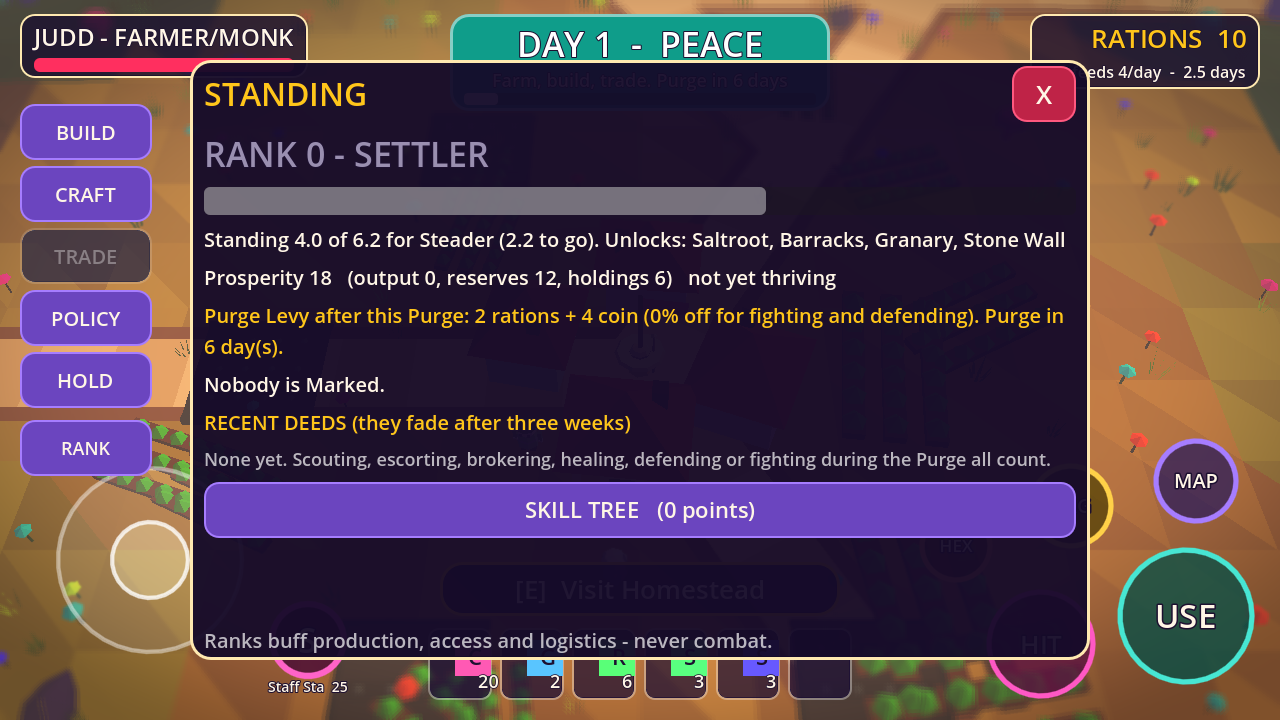
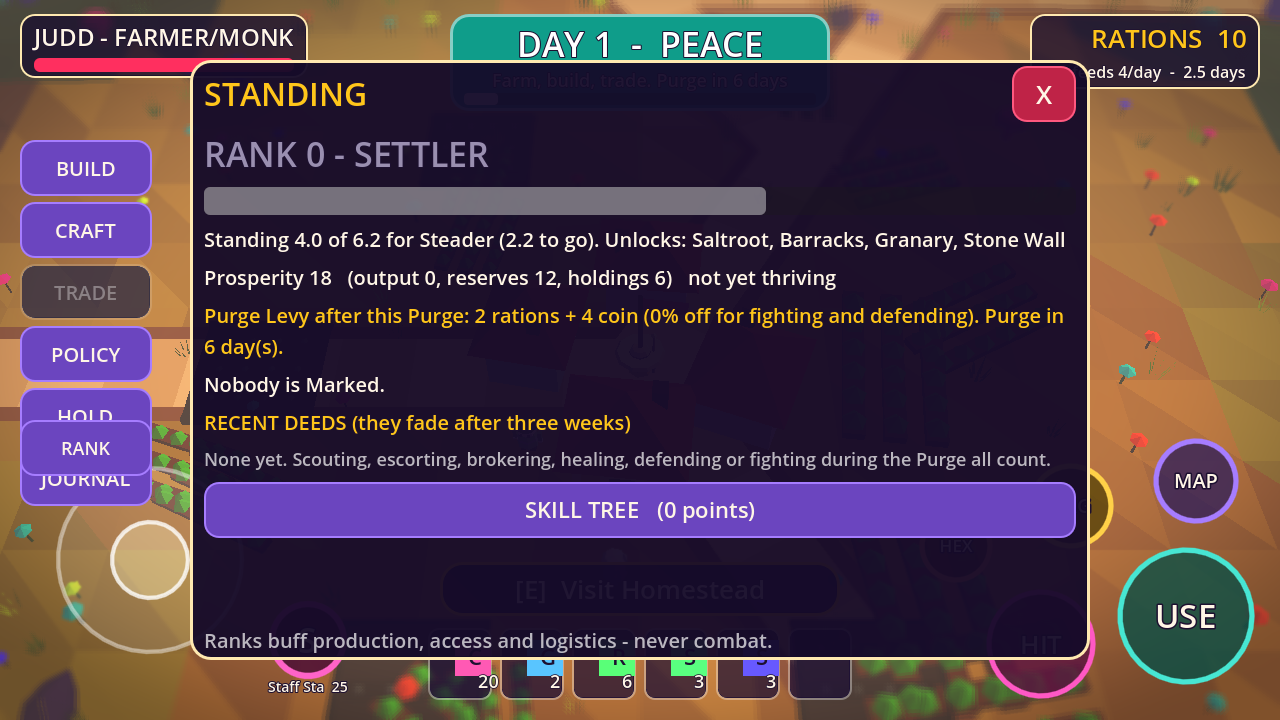
Pass 3 integrated: quest/POI wiring, journal capture, RANK button placement, reports
Claude-Session: https://claude.ai/code/session_016RWPuPUYHXU7mCfFED3ojH

Changed region(s): [[0.0, 0.1222, 0.125, 0.6111], [0.0, 0.6417, 0.125, 0.7028]]

diff --git a/docs/TEST_REPORT.md b/docs/TEST_REPORT.md
@@ -35,3 +35,7 @@ Still open: Dominion/Crowned wins still in rules (replace with Total Conquest), 
 42 suites, 378 tests, 19086 checks, 0 failures. Journey (software GL) captured Standing and Skill panels with no script errors.
 Sim (agent-run, 24 seeds x 336 days): territory still changes after week 24 in 24/24; non-raider personas earn deeds; Total Conquest 0/24; Vex eliminated in 100% of matches (class balance far outside band); several abilities never used by bots. See docs/SIM_REPORT_pass2.md.
 Missing: meshes for shrine/greenhouse/forge (fallback hut), HUD standing strip (toast at WARNING only), scout/escort/truce/ransom/sabotage buttons.
+
+## Pass 3 integrated run (lead)
+47 suites, 456 tests, 25019 checks, 0 failures. Journey (software GL, 8 captures incl. quest journal, standing, skills) no script errors.
+Agent-run sim (24 seeds x 336 days): Total Conquest 7/24; Vex eliminated 96%; 11 of 14 classes eliminated >60%; class land spread outside 0.5x-2x; Track/Truce unused by bots. Not a human playtest.

diff --git a/CHANGELOG.md b/CHANGELOG.md
@@ -19,3 +19,8 @@
 - Standing/ranks (0-5, no combat stat), deeds with decay, Mark + bounty, Purge Levy, upkeep/stability, thin crown; Purge-only purgebloom/ashmarrow; escalating waves; scout/escort/truce/ransom/sabotage commands.
 - 14 skill trees (15 nodes each) fed only by Purge deeds; Standing and Skills panels wired (RANK button, P/K keys).
 - Class-aware AI leaders; passive personas earn deeds. See docs/SIM_REPORT_pass2.md.
+
+## v0.4.0 — Pass 3
+- Quest engine + 8 class questlines (6 stubs), converging solo-completable steps; quest journal.
+- 40 POIs per world (7 types, weekly respawn, discovery rewards), props and map markers; T2/T3 resources, 4 stations, 14 new buildings with models.
+- Balance: Vex survivability, Halo Ward trigger, costlier skill nodes, empires of 12+ holdings, last-rival hunt. Total Conquest reached in 7/24 sim seeds (was 0/24). See docs/SIM_REPORT_pass3.md.
